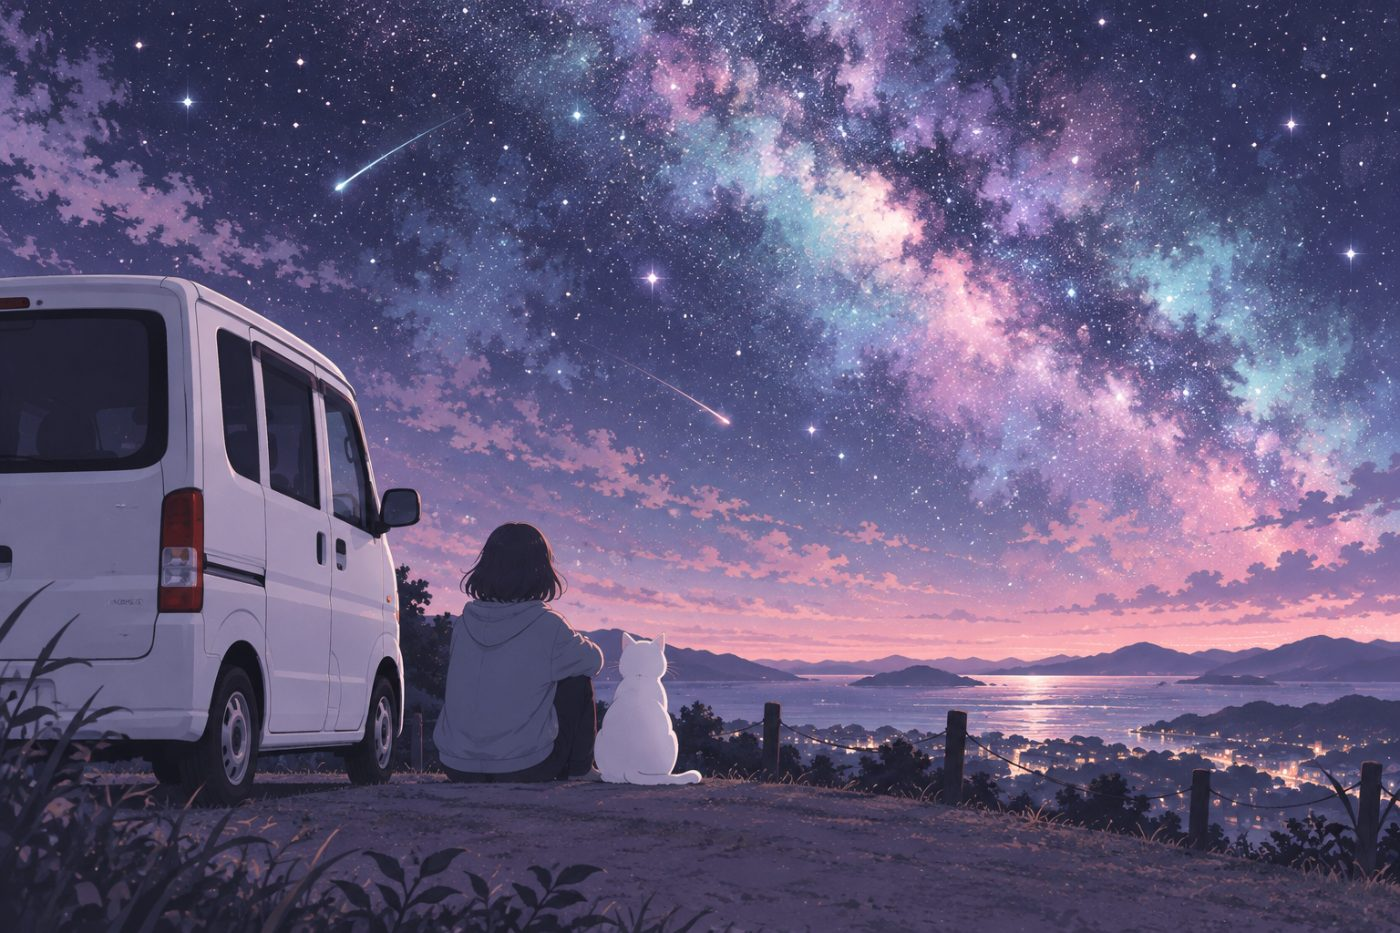
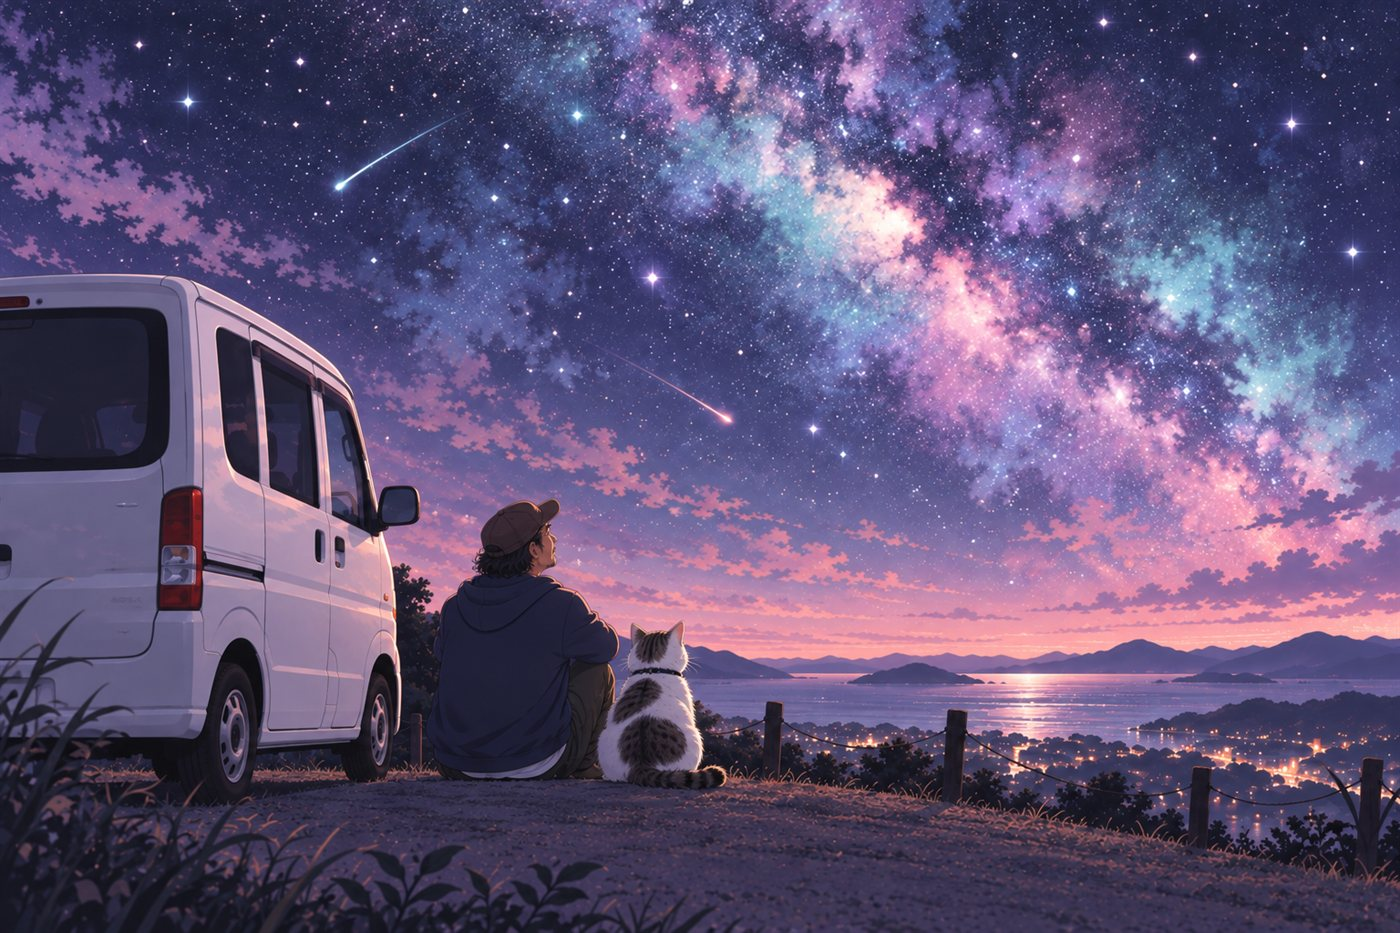
Redraw director illustration as the real director and Tom
Claude-Session: https://claude.ai/code/session_01MJ7uf8Yex4k5ZMAKpsRoNs

diff --git a/profile.html b/profile.html
@@ -57,7 +57,7 @@
 <span class="prof-kana">ヨシオカ ユウセイ ／ SpaceFamilyCompany 代表・未来ガジェット研究所 所長</span>
 <p class="lead">地方には、ITがあれば楽になる仕事がたくさんあります。足りないのは技術ではなく、近くで相談できる人。その「近くの人」になるために、研究所を始めました。</p>
 </div>
-<div class="photo prof-photo has-img"><img src="assets/img/profile-tom.jpg" width="1400" height="933" alt="軽バンの横で、人と白猫が並んで星空を見上げているイラスト" loading="lazy"><span class="tag-note">イラスト</span></div>
+<div class="photo prof-photo has-img"><img src="assets/img/profile-tom.jpg" width="1400" height="933" alt="軽バンの横で、キャップをかぶった所長と、白と茶トラのぶち猫トムが並んで星空を見上げているイラスト" loading="lazy"><span class="tag-note">イラスト</span></div>
 </div>
 </section>
 
